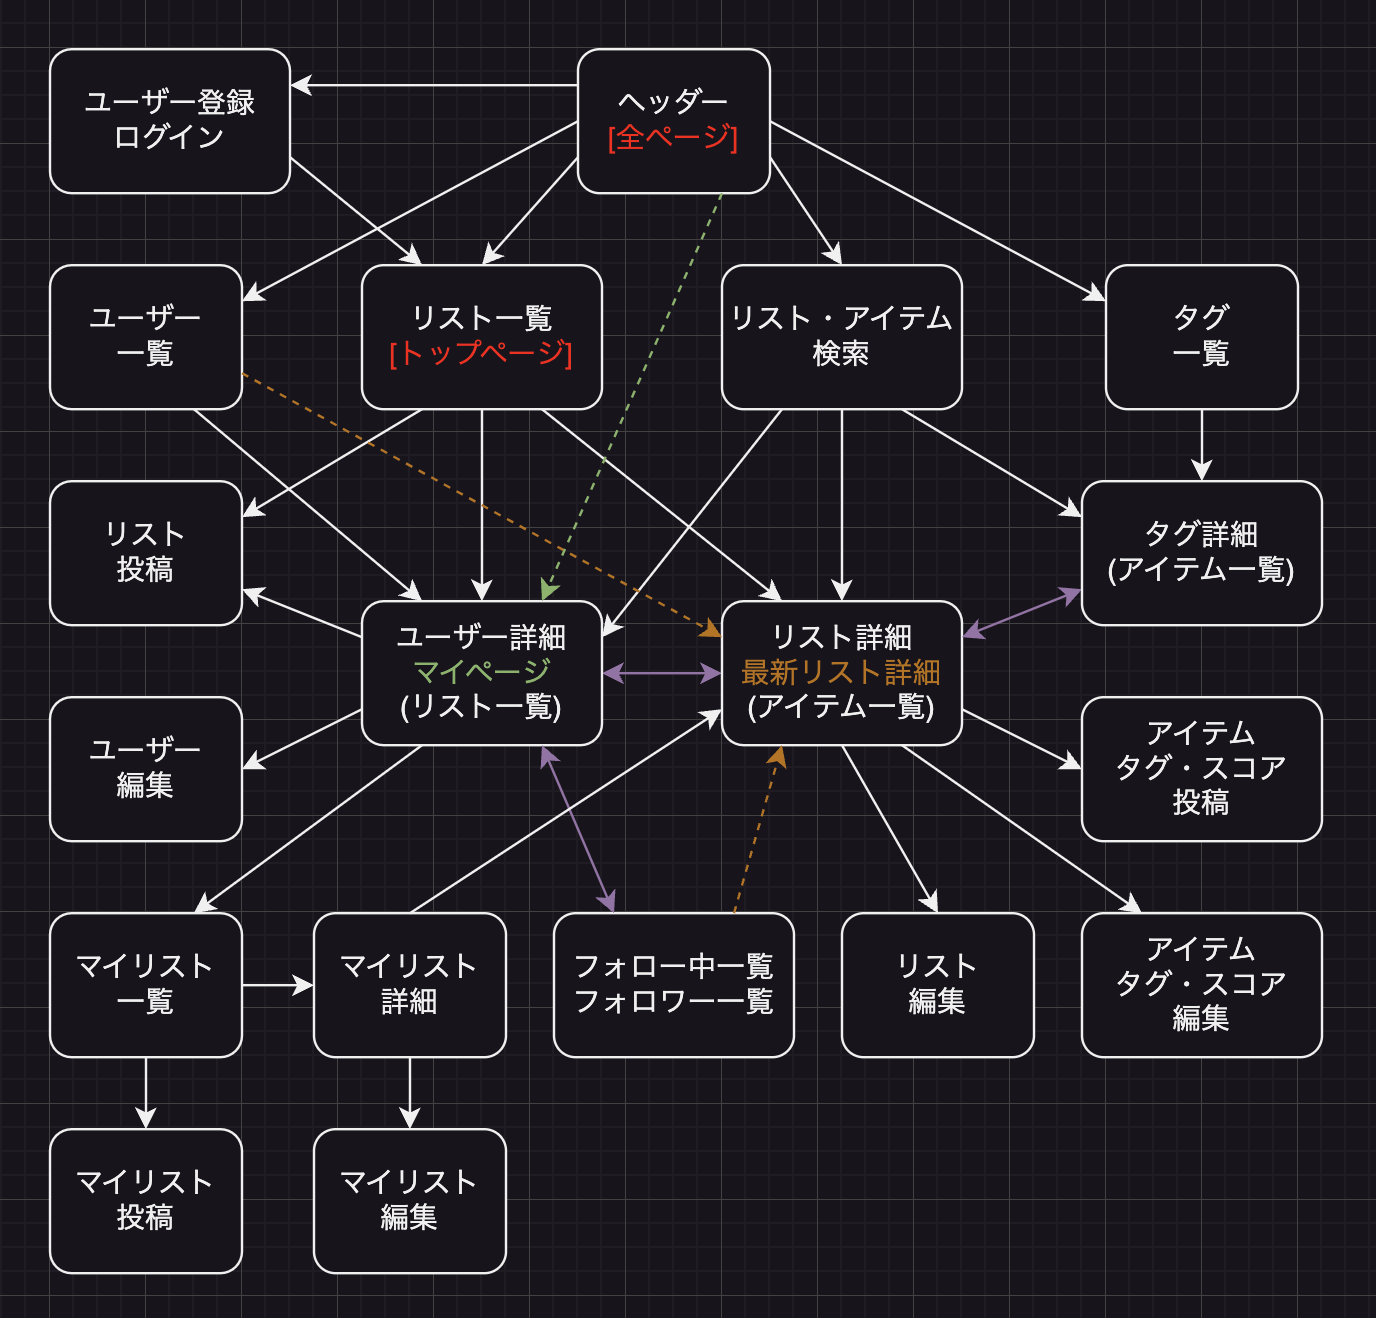
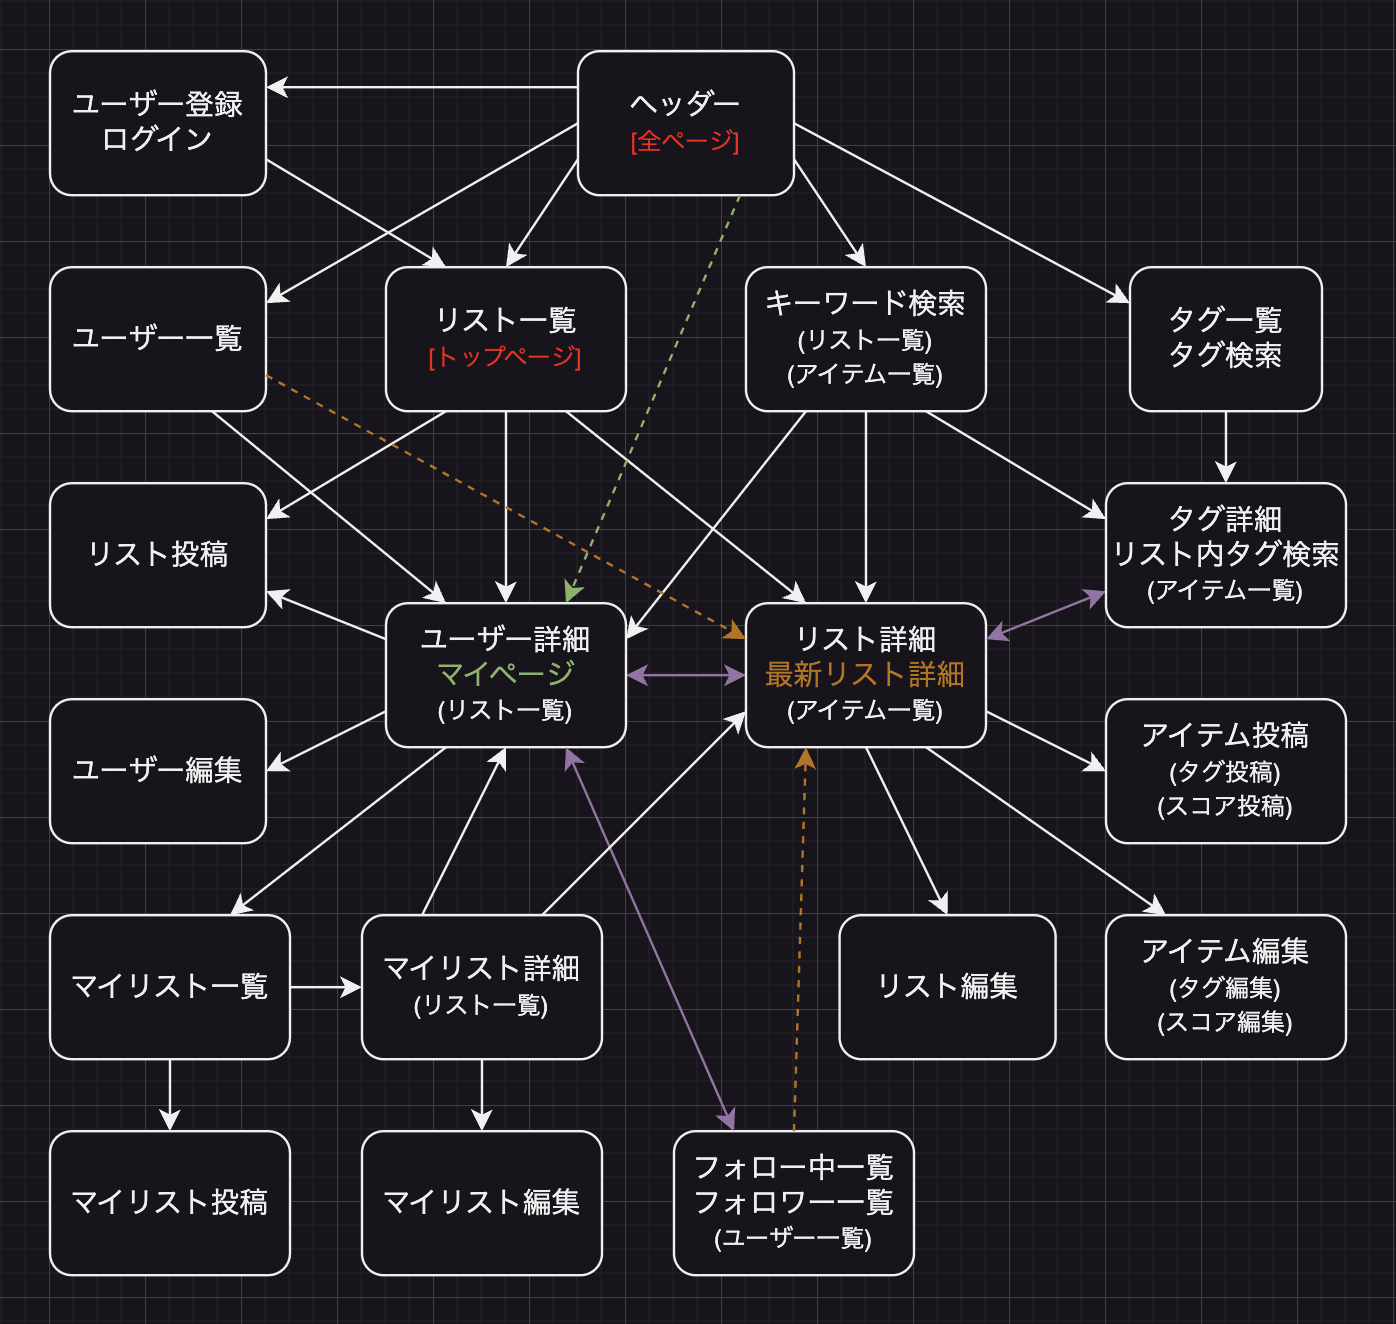
#16-3(修正) README：アプリ概要

diff --git a/README.md b/README.md
@@ -1,10 +1,10 @@
-　※記載内容および画像は、全て開発中のもの。CSSによるレイアウト調整は未着手。  
+　※記載内容および画像は、全て開発中のもの。CSSによるレイアウト装飾(配色・フォントなど)は未着手。  
 <br>
 <br>
 
 # [ 1 ] アプリケーションの概要
-## 1-1. 名称
-　Five Level Tagging　(5段階タグ付けアプリ)  
+## 1-1. アプリ名称
+　Five Level Tagging 【5段階タグ付けアプリ】  
 <br>
 <br>
 
@@ -18,7 +18,7 @@
 
 　(2)個人風アカウント：user2　メールアドレス：bbbb@jp　パスワード：2bbbbbb8  
 
-　※Basic認証(ID/Pass)は、履歴書・職務経歴書に記載。  
+　※Basic認証(ID/Pass)：履歴書・職務経歴書に記載。  
 <br>
 　※テスト用アカウントにログインして閲覧する皆様へ  
 　既存データ(サンプルデータ)の編集・削除はご遠慮ください。(user1〜2, list1〜6, item1〜72)  
@@ -26,28 +26,32 @@
 <br>
 <br>
 
-## 1-4. 活用方法の概要
+## 1-4. アプリ使用方法の概要
+### 1-4-1. リスト(アイテム一覧表)を投稿し、各アイテムにタグと5段階スコアを設定する
 　(1)ユーザーが自由に決めたテーマに基づき、記録・発信したい情報を投稿できる(企業の業務や、個人の趣味)。  
-　情報をまとめるページとして「リスト」を投稿する。リスト内の個々の情報として「アイテム」を投稿する。  
+　情報を一覧化するページとして「リスト」を投稿する。リスト内の個々の項目として「アイテム」を投稿する。  
 
 　(2)アイテムの特徴を示すキーワードとして「タグ」を投稿する。アイテム1つにつき、最大4つ。  
 　タグの程度や段階を示す数値として、「1」~「5」の「スコア」を投稿する。  
 　これにより、アイテムが持つ特徴を5段階の数値で表現し、データベース化できる。  
 
-　(3)リストやアイテムの一覧表示を並び替える。  
-　(※未実装)自作リストの場合、ドラッグ＆ドロップにより、アイテム一覧を任意の順番に並び替え、保存できる。  
-<br>
-　(4)ワード検索やタグ検索により、他ユーザーの投稿したリストやアイテムを表示する。  
+　(3)自作リスト内のアイテム一覧表を並び替える(ドラッグ＆ドロップ)。順番を指定して保存できる。  
 
-　(5)他ユーザーが更新した最新のリスト名を、ユーザー一覧(※実装済み)やフォロー一覧(※未実装)で表示する。  
-
-　(6 ※未実装)他ユーザーのリストをマイリスト登録し、一覧表示する。  
-
-　(7 ※未実装)自作リストの公開範囲を限定する。閲覧可能なユーザーや、共同編集可能なユーザーを指定できる。  
+　(4)自作リストの権限を設定する。閲覧可能なユーザーや、共同編集可能なユーザーを指定できる。  
 <br>
 <br>
 
-## 1-5. 活用例
+### 1-4-2. リストやユーザーを検索・閲覧する
+　(1)リスト(詳細ページ)へのアクセス機能：リスト一覧、キーワード検索、タグ検索、マイリストなど。  
+　ユーザー一覧やフォロー一覧からは、各ユーザーが更新した最新リストにアクセスできる。  
+
+　(2)ユーザー(詳細ページ)へのアクセス機能：ユーザー一覧、フォロー一覧、リスト一覧(各リストの作者名)など。  
+
+　(3)ユーザーやリストやアイテムの一覧表をソートする。更新日時順、五十音順、スコア順、作者指定順など。  
+<br>
+<br>
+
+## 1-5. アプリ活用例
 　(1)音楽・書籍・映像など、鑑賞作品の評価項目と評価値をリスト化する。  
 　「感動:1」「怖い:5」の映画  
 <br>
@@ -56,7 +60,7 @@
 　「満腹感:2」薄焼きせんべい＋「満腹感:4」カットロールケーキ  
 　「満腹感:1」ミニゼリー＋「満腹感:5」肉まん  
 <br>
-　(3)小学生低学年向けの運動遊びリストを作成。難易度を数値化。運動遊びの実施時期・順番を考えやすくする。  
+　(3)小学生低学年向けの運動遊び計画を作成。難易度を数値化。運動遊びの実施時期・順番を考えやすくする。  
 　「走る:1」ドーンじゃんけん  
 　「走る:2」ハンカチ落とし  
 　「避ける:1」おしり鬼ごっこ  
@@ -72,20 +76,27 @@
 <br>
 <br>
 
-## 1-6. 作成した背景
-　保育士時代、過去のおやつ献立や遊び・行事の記録を参照したい時、毎月の献立表や個別の行事報告書を何枚もめくって探すような、アナログな環境だった。  
-　改善策として、エクセルで記録を一覧化し、蓄積・検索しやすくした。  
-　献立や遊びの特徴と評価値(タグとスコア)も簡潔に記録することで、保育を通じて児童に提供したい「体験」の組み合わせや順番に、意図を込めて計画しやすくなった。  
+## 1-6. アプリを作成した背景
+### 1-6-1. 業務実績：情報をリスト化・タグ化・数値化し、特徴の把握や比較を効率化した
+　保育士時代、献立や活動の記録を手書きで作成してファイリングするのが慣例、という職場を複数経験した。  
+　新たな計画を立てる際、過去の献立や活動を参照しつつも、丸被りは避けたい。献立や活動の実施時期や順番、実施の意図や効果・評価を、数年単位で比較したい。数年分の記録を何枚もめくって探し、読み比べていた。  
 
-　便宜的・簡易的な数値化により、抽象的・曖昧な事柄についても、特徴の把握と比較・選択がしやすくなった。  
-　ただし、当時はあくまでイチ施設内で完結する記録であった。  
+　改善策として、PCで記録入力の雛形を作った。献立や活動のデータを一覧化し、検索しやすくした。献立や活動の簡潔な特徴と評価値(タグとスコア)も記録し、共通タグやスコア順での一覧表ソートも可能にした。  
+
+　便宜的・簡易的な数値化により、本来定量的でない保育活動でも、特徴の把握と比較・選択がしやすくなった。  
+　保育を通じて児童に提供したい「体験」の組み合わせや順番に、意図を込めて計画しやすくなった。  
+　経験知を蓄積・共有し、職員が異動しても継承しやすくなった。ただし、あくまで私の職場内で完結していた。  
 <br>
-　今回、特徴のタグ化・スコア化機能をアプリに落とし込めば、他ユーザーとの双方向性を強化できると考えた。  
-　検索機能やフォロー機能を通じ、他者の投稿したリストを見て、自分と異なる経験やアイディア、価値観や価値基準に出会い、刺激やヒントを得られるチャンスが増える。  
-　限定公開リスト機能を通じ、企業内やグループ内、あるいはネット上・アプリ上で知り合った人など、対象を指定して閲覧や共同編集ができる。  
+<br>
 
-　今回はリスト・タグのジャンルを限定しないことで、様々な業務や趣味の記録に活用できる汎用性を優先した。  
-　(仮に大規模市場または特定業界向けに作成するなら、アプリのUIやデータベース設計を、特定のジャンル・ターゲットに寄せた方が実用的であると考えてはいる。)  
+### 1-6-2. アプリ化利点：リストをユーザーが投稿・検索し合い、多様な情報や発想に出会える
+　そこで、特徴のタグ化・スコア化機能をアプリに落とし込めば、ユーザー間の双方向性を強化できると考えた。  
+　検索機能やフォロー機能を使い、他者の投稿したリストを発見できる。リスト作者の考えが反映されたタグやスコアを見て、自分と異なる経験や発想、価値観や価値基準に出会い、刺激やヒントを得るチャンスを増やせる。  
+
+　さらに、リスト権限設定機能を使い、特定のメンバー内でリストの限定公開や共同編集ができる。企業内やプロジェクトチーム内、コミュニティの仲間内や家族内、あるいはネット上・アプリ上で知り合った人など。  
+
+　今回はリスト・タグのジャンルを限定しないことで、様々な業務や趣味の記録に活用できる汎用性を持たせた。  
+　※特定業界向けに開発する場合は、UIやDB設計を特定のジャンル・ターゲットに寄せた方が実用的だと考える。  
 <br>
 <br>
 <br>
